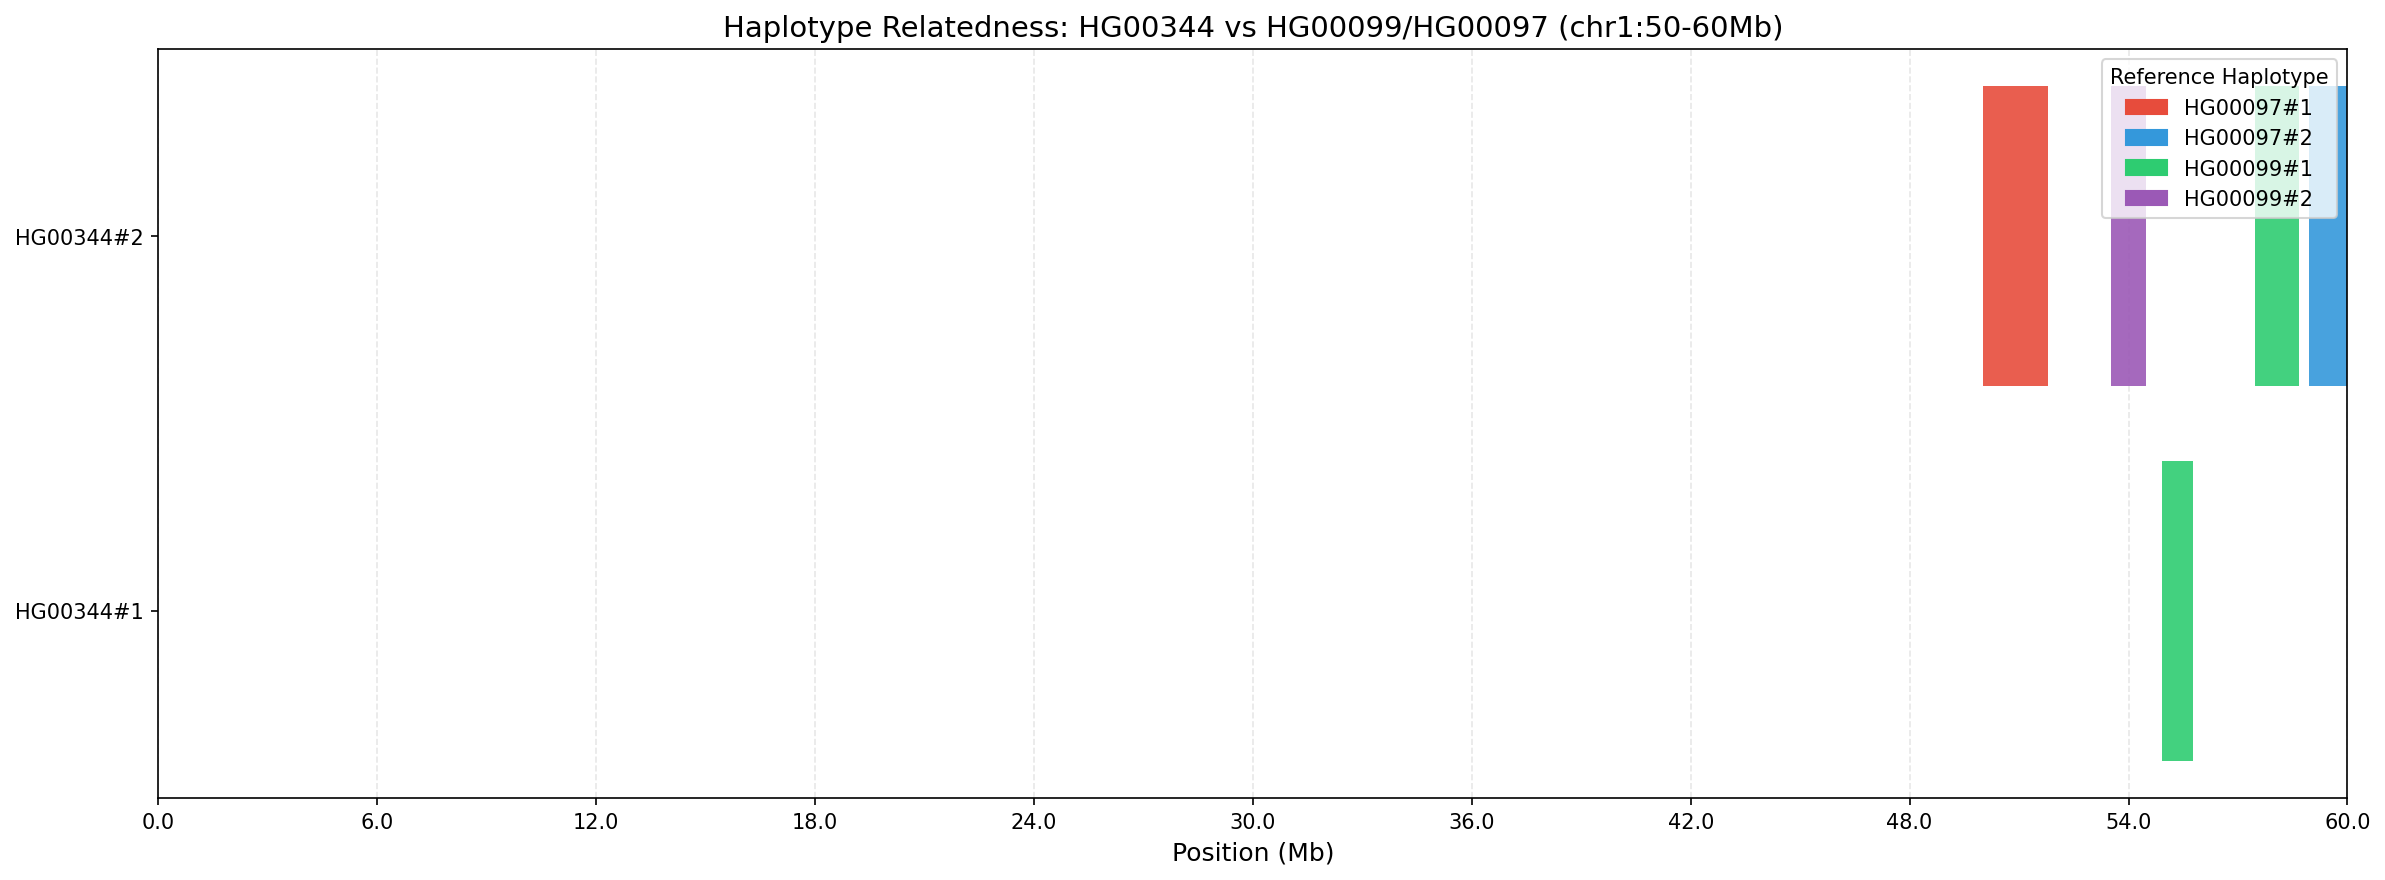
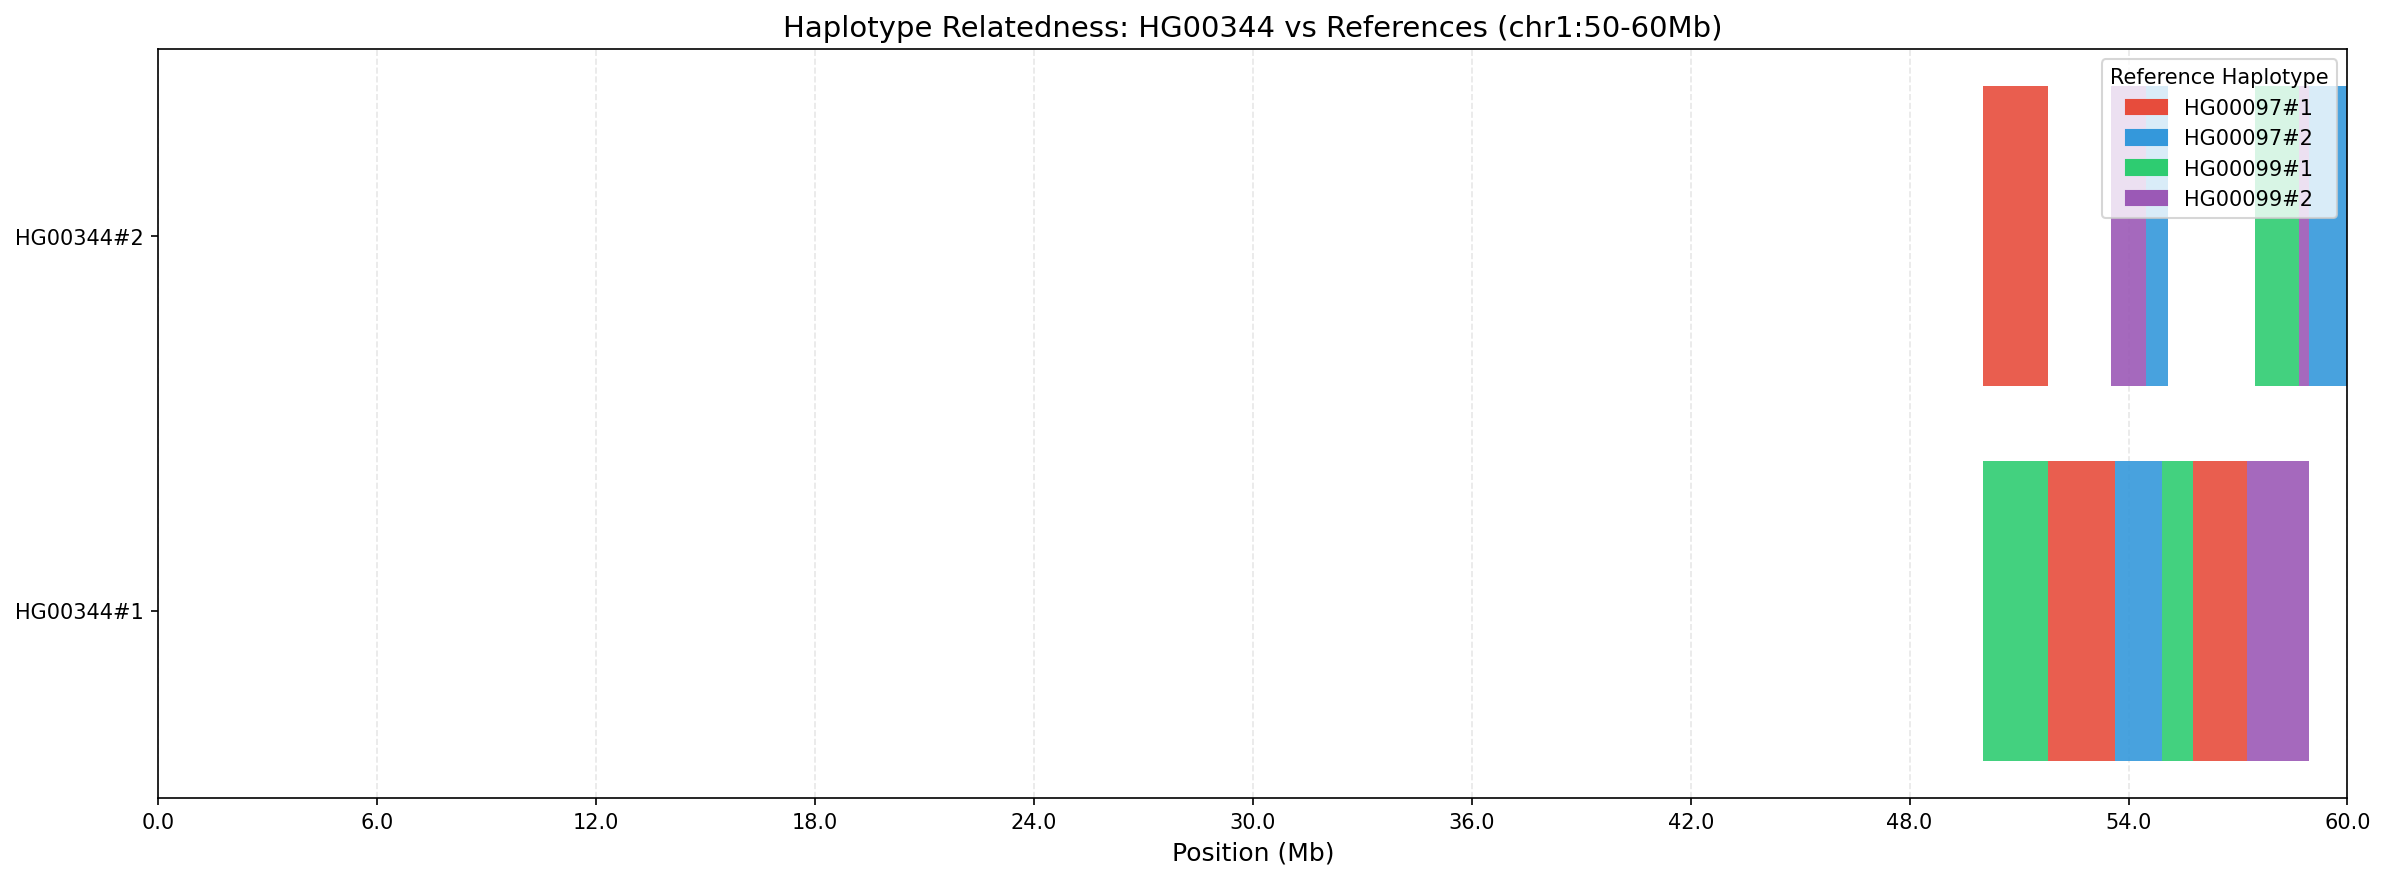
docs: lower posterior threshold to 0.5 in tutorial

diff --git a/docs/tutorials/ancestry_relatedness.md b/docs/tutorials/ancestry_relatedness.md
@@ -107,27 +107,30 @@ The script will show progress and finish with a summary:
 RELATEDNESS ANALYSIS SUMMARY
 ============================================================
 
-Total segments: 5
-Total length: 5.83 Mb
+Total segments: 12
+Total length: 14.81 Mb
 Query samples: 2
 Reference haplotypes: 4
 
 --- Segments by reference haplotype ---
-  HG00097#1: 1 segments, 1.78 Mb
-  HG00097#2: 1 segments, 1.06 Mb
-  HG00099#1: 2 segments, 2.03 Mb
-  HG00099#2: 1 segments, 0.95 Mb
+  HG00097#1: 3 segments, 5.11 Mb
+  HG00097#2: 3 segments, 2.95 Mb
+  HG00099#1: 3 segments, 3.82 Mb
+  HG00099#2: 3 segments, 2.92 Mb
 
 --- Per query sample ---
 
-  HG00344#1 (0.84 Mb total):
-    HG00099#1: 0.84 Mb (100.0%)
+  HG00344#1 (8.93 Mb total):
+    HG00097#1: 3.33 Mb (37.3%)
+    HG00099#1: 2.63 Mb (29.5%)
+    HG00099#2: 1.69 Mb (19.0%)
+    HG00097#2: 1.27 Mb (14.3%)
 
-  HG00344#2 (4.99 Mb total):
-    HG00097#1: 1.78 Mb (35.8%)
-    HG00099#1: 1.18 Mb (23.7%)
-    HG00097#2: 1.06 Mb (21.3%)
-    HG00099#2: 0.95 Mb (19.1%)
+  HG00344#2 (5.87 Mb total):
+    HG00097#1: 1.78 Mb (30.4%)
+    HG00097#2: 1.67 Mb (28.5%)
+    HG00099#2: 1.23 Mb (20.9%)
+    HG00099#1: 1.18 Mb (20.2%)
 ```
 
 ### Expected Output Files
@@ -147,9 +150,16 @@ Reference haplotypes: 4
 chrom          start      end        sample     ancestry   n_windows  mean_similarity  mean_posterior  discriminability
 CHM13#0#chr1   50000001   51785000   HG00344#2  HG00097#1  357        0.9997           0.748           0.001
 CHM13#0#chr1   53515001   54470000   HG00344#2  HG00099#2  191        0.9993           0.843           0.002
+CHM13#0#chr1   54470001   55080000   HG00344#2  HG00097#2  122        0.9992           0.694           0.003
 CHM13#0#chr1   57475001   58660000   HG00344#2  HG00099#1  237        0.9991           0.915           0.003
+CHM13#0#chr1   58660001   58935000   HG00344#2  HG00099#2  55         0.9988           0.693           0.002
 CHM13#0#chr1   58935001   60000000   HG00344#2  HG00097#2  213        0.9991           0.836           0.004
+CHM13#0#chr1   50000001   51790000   HG00344#1  HG00099#1  358        0.9992           0.668           0.002
+CHM13#0#chr1   51790001   53640000   HG00344#1  HG00097#1  370        0.9995           0.585           0.002
+CHM13#0#chr1   53640001   54915000   HG00344#1  HG00097#2  255        0.9991           0.538           0.003
 CHM13#0#chr1   54915001   55760000   HG00344#1  HG00099#1  169        0.9985           0.832           0.002
+CHM13#0#chr1   55760001   57240000   HG00344#1  HG00097#1  296        0.9989           0.598           0.004
+CHM13#0#chr1   57240001   58935000   HG00344#1  HG00099#2  339        0.9989           0.566           0.003
 ```
 
 ### Expected Plot
@@ -160,10 +170,11 @@ The chromosome painting shows which reference haplotype each genomic segment is 
 
 ### Interpretation
 
-- **HG00344#1** shows 100% similarity to HG00099#1 in the detected segment
-- **HG00344#2** has segments matching all 4 reference haplotypes, with HG00097#1 being the most common (36%)
-- The `mean_posterior` values (0.75-0.91) indicate moderate to high confidence
+- **HG00344#1** has segments matching all 4 reference haplotypes, with HG00097#1 being the most common (37%)
+- **HG00344#2** also has segments matching all 4 references, with HG00097#1 being most common (30%)
+- The `mean_posterior` values (0.54-0.91) show variable confidence - higher posteriors indicate clearer assignments
 - Low `discriminability` values (<0.005) suggest references have similar overall similarity, which is expected for unrelated EUR individuals
+- With threshold 0.5, we paint ~74% of the region (14.81 Mb out of 20 Mb across both haplotypes)
 
 ---
 
@@ -342,7 +353,7 @@ Run HMM inference:
     --similarity-file "$OUTDIR/similarities.tsv" \
     --estimate-params \
     --smooth-min-windows 3 \
-    --min-posterior 0.7 \
+    --min-posterior 0.5 \
     --posteriors-output "$OUTDIR/posteriors.tsv" \
     -t $JOBS
 ```
@@ -435,7 +446,7 @@ ancestry --populations my_analysis/samples/populations.tsv ...
 | `--populations` | (required) | TSV file: population_name, haplotype_id |
 | `--estimate-params` | off | Auto-estimate HMM parameters |
 | `--smooth-min-windows` | 0 | Merge short segments |
-| `--min-posterior` | 0.0 | Minimum confidence to report |
+| `--min-posterior` | 0.0 | Minimum confidence to report (recommend 0.5) |
 | `-t` | 4 | Number of threads |
 
 ### impg similarity